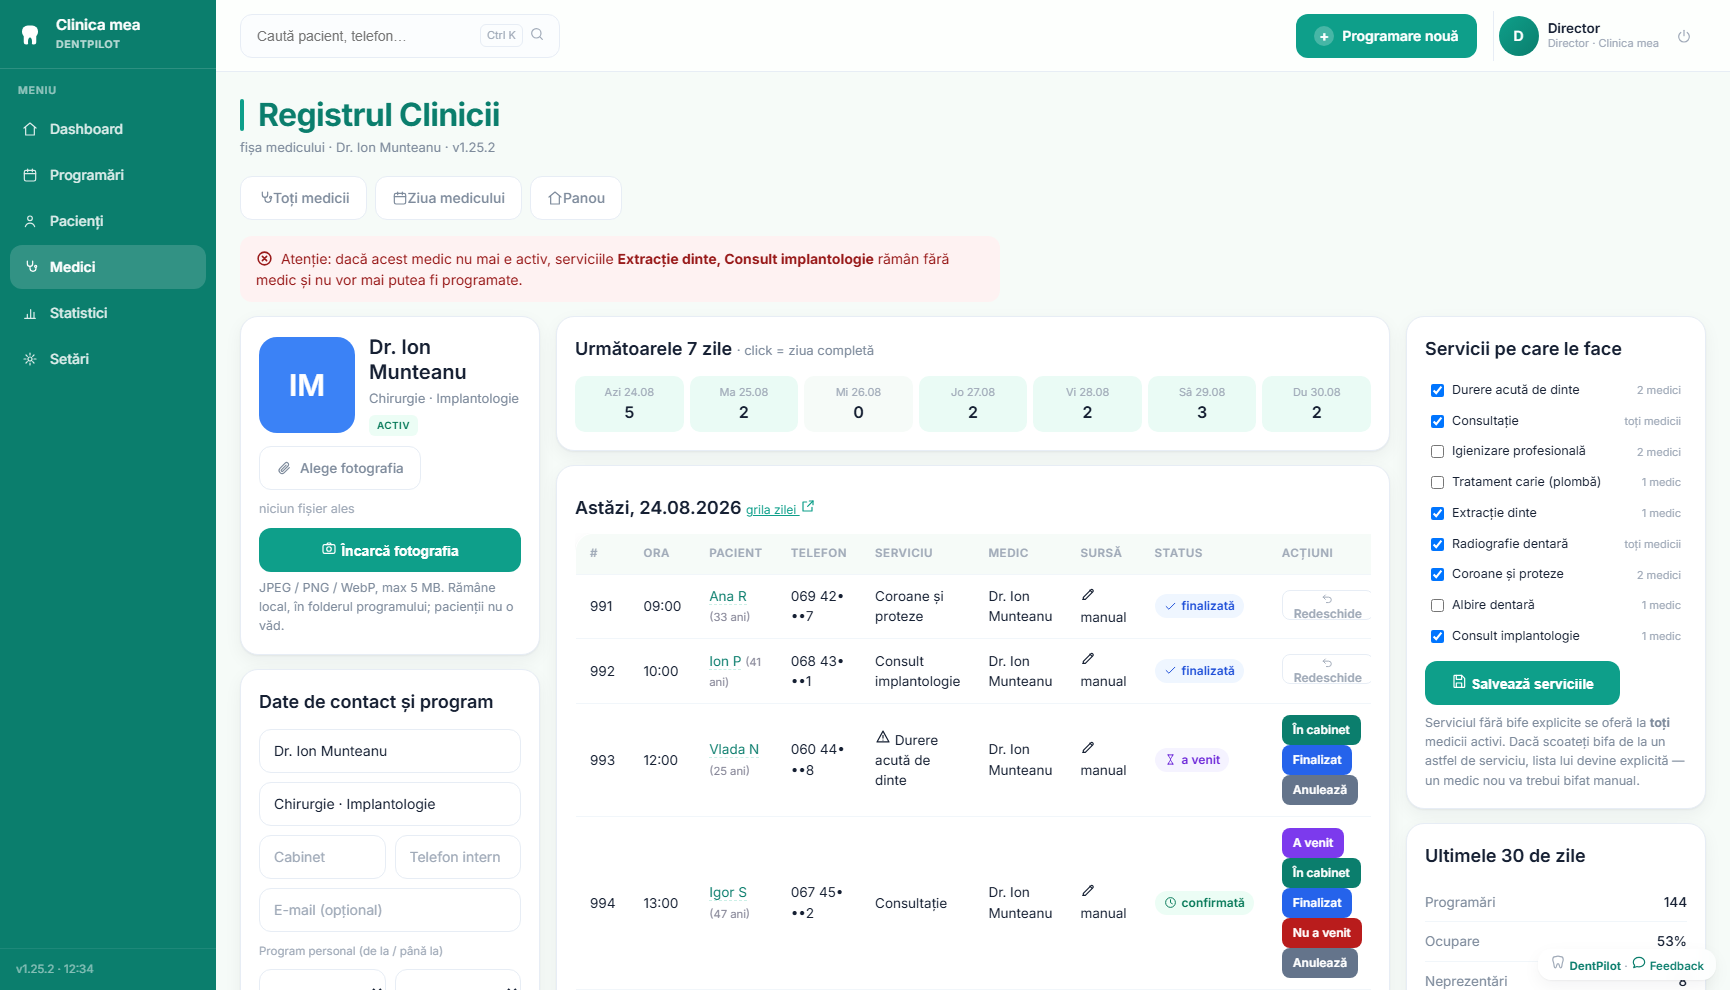
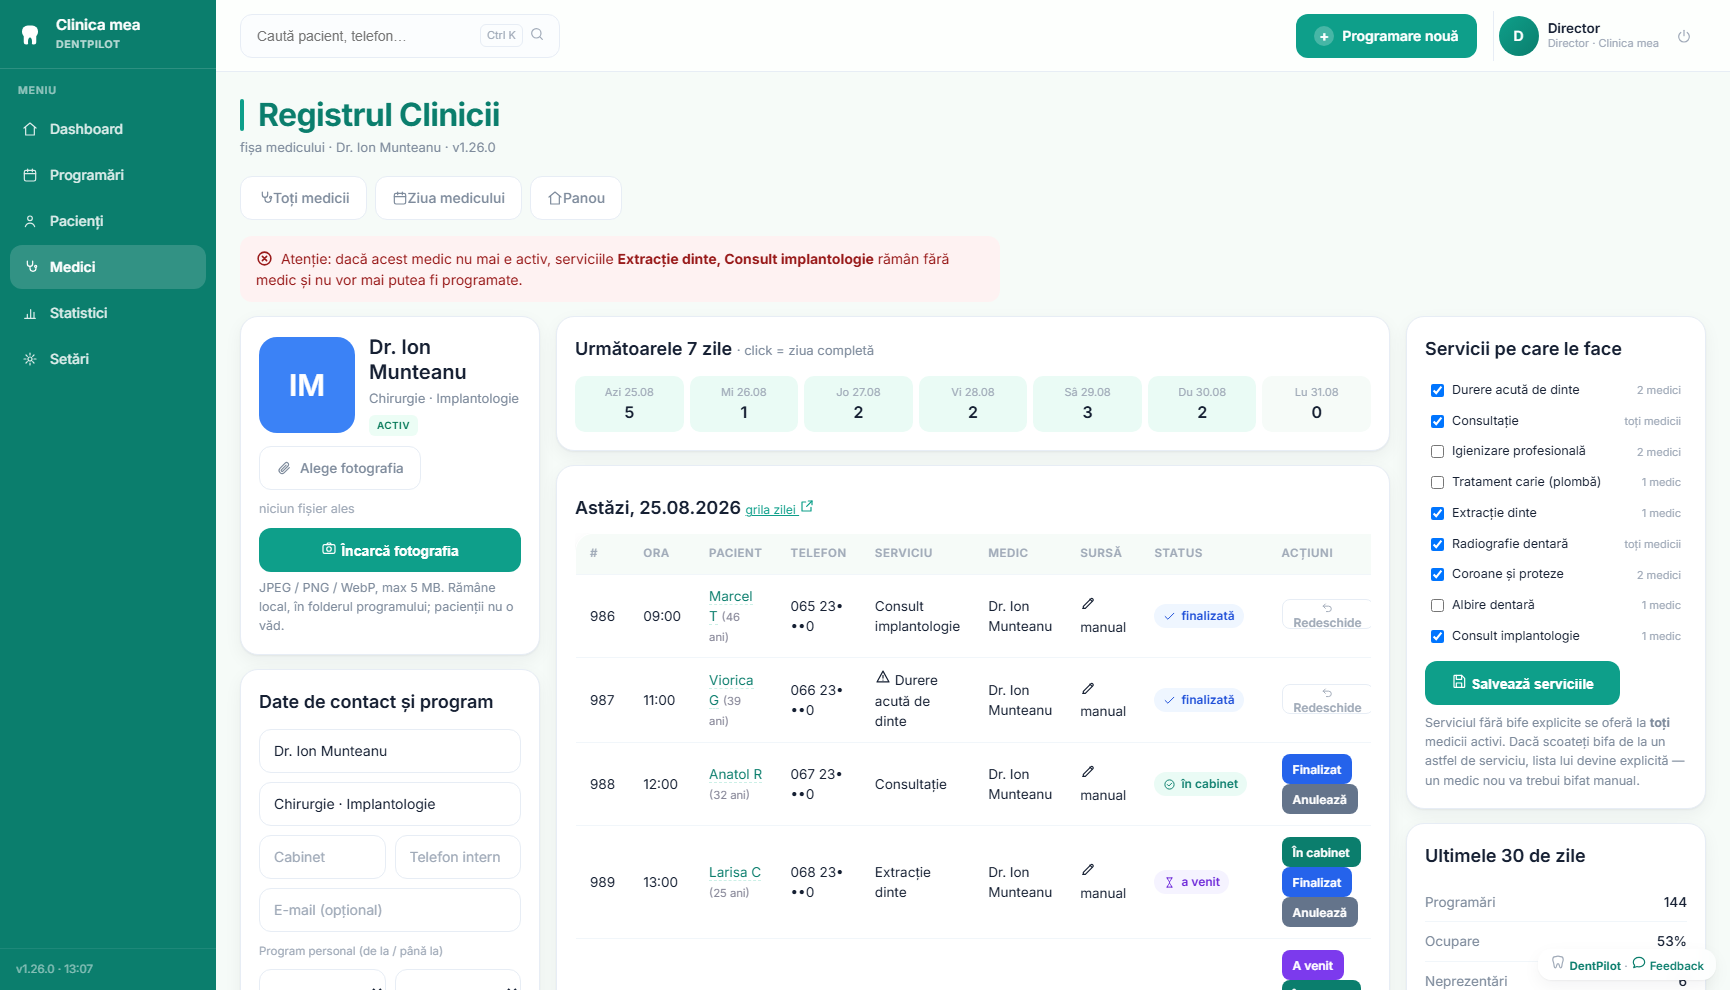
The public face gets the gum chart, and the screenshots move to 1.26.0
The periodontal chart shipped in 1.26.0, so the README says what it is and
shows it: six points per tooth, the summary computed rather than typed, and
the one thing that makes it different from every other screen here - the
unit of storage is a dated examination, not a current state, because
periodontology is entirely about change over time.

Two rules from the code are in the text because a reader of a chart needs
them: a probing depth of 0 means not measured (a healthy sulcus is 1-3 mm),
which is what keeps bleeding-on-probing and mean depth honest; and entry is
built for dictation, because 192 numbers are otherwise never entered.

All eight shots are retaken from the stand on 1.26.0. The staged clinic now
carries one periodontal examination - moderate periodontitis rather than a
mouth of identical threes - so the 043/e sheet in the shots also shows its
new summary line in section 4.

diff --git a/README.md b/README.md
@@ -13,7 +13,7 @@ no account, no subscription and no server holding patient data.
 
 > Screenshots and `clinic.json` in this repo use synthetic data — invented patients,
 > invented doctors. Phone numbers, e-mail addresses and national ID numbers are masked in
-> the screenshots. One `clinic.json` = one clinic. The shots below are **v1.25.2**, taken
+> the screenshots. One `clinic.json` = one clinic. The shots below are **v1.26.0**, taken
 > on a staged clinic with two months of work behind it.
 
 ## Screenshots
@@ -43,6 +43,14 @@ today's agenda in the right rail. The page keeps itself current without reloadin
 preview with treatment-plan progress and CSV export:
 
 ![Patient list](screenshots/patient-search.png)
+
+**Periodontal chart** — six points per tooth (probing depth, recession,
+bleeding) plus mobility and furcation, stored as a dated examination rather
+than as a state, so two examinations can be compared. The numbers on the right
+are computed, not typed: bleeding on probing, mean depth, pockets of 4 mm and
+deeper:
+
+![Periodontal chart](screenshots/perio.png)
 
 **Doctors** — one card per doctor with state, load and 30-day figures; the doctor's own
 page holds the working window, the services performed and the calendar colour:
@@ -171,6 +179,31 @@ then a two-column workspace.
     overlapping constructions out loud. Both screens draw the brace with its material over
     the actual tooth buttons, which is what makes it survive the grid gap, the window
     width and both views.
+- **Periodontal chart** (`/admin/patient/{id}/parodontograma`) — the gum's own
+  chart, six points per tooth: probing depth, recession and bleeding, with
+  mobility (Miller) and furcation (Hamp) for the whole tooth. Attachment level
+  is not stored — it is depth plus recession, and computable things are not
+  written down.
+
+  What makes it different from every other screen here: **the unit of storage
+  is a dated examination, not a current state.** Periodontology is entirely
+  about change over time — "5 mm in March, 3 mm now" *is* the result of the
+  treatment — and a chart without yesterday answers nothing anyone measures it
+  for. So each examination keeps its own numbers and the earlier ones stay
+  untouched.
+
+  A probing depth of **0 means not measured**, not zero millimetres: a healthy
+  sulcus is 1–3 mm, and zero is how a skipped point is written down. That is
+  what keeps the two summary numbers honest — bleeding on probing and mean
+  depth are divided by the points actually probed, so half a mouth left blank
+  cannot halve them and make the treatment look better than it is.
+
+  Entry is built for dictation, because a chart of 192 numbers is otherwise
+  never filled in: the cursor moves to the next point as soon as a number
+  cannot grow (`3` is finished, `1` waits for a second digit), and bleeding is
+  the `b` key. The chart prints as a sheet of its own; the 043/e form gets a
+  one-line summary in section 4, because order 828 fixes that form's structure
+  and there is no room in it for a table of ours.
 - **Treatment plan** — tooth, procedure, doctor, price in MDL, due date. Three statuses
   (planned → in progress → done) move along a directed path the server validates as a pair
   (from, to), tabs filter by status with counts, the total of the *unfinished* plan is shown
